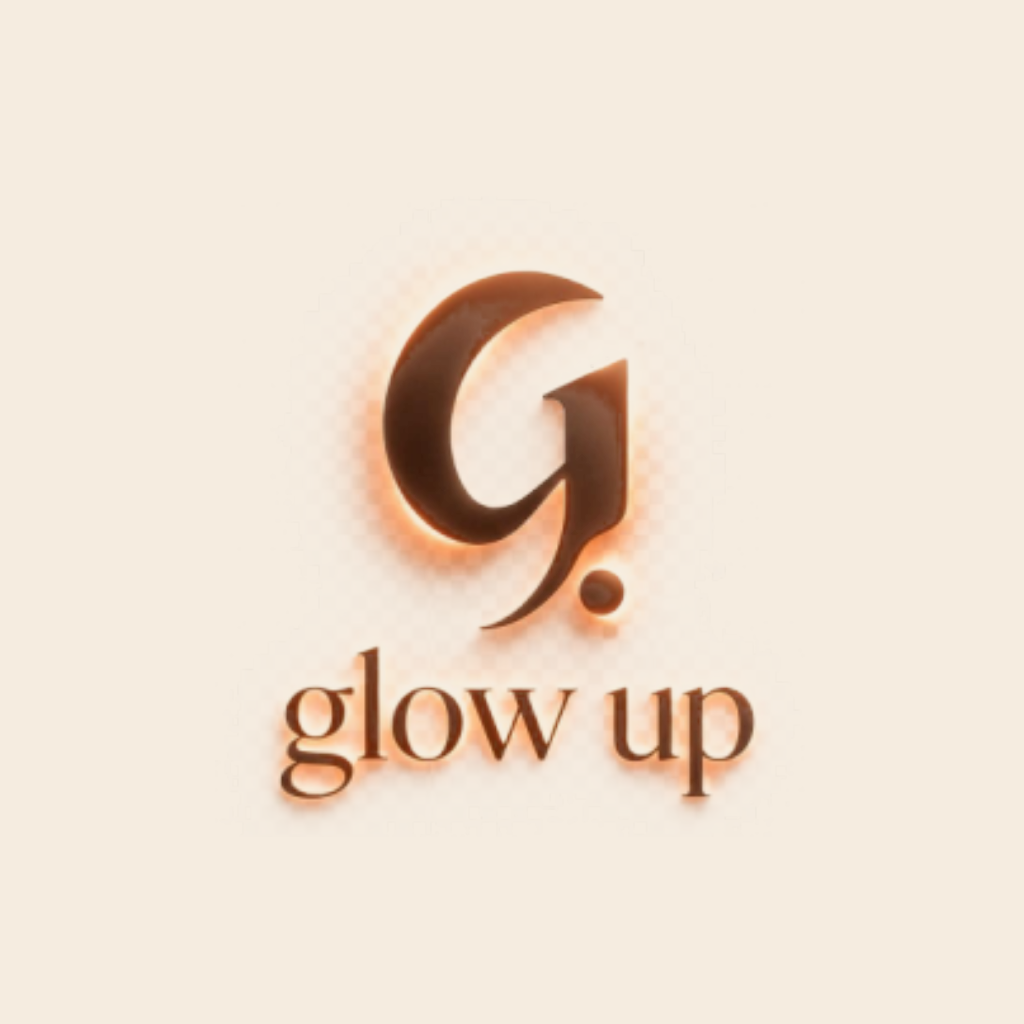
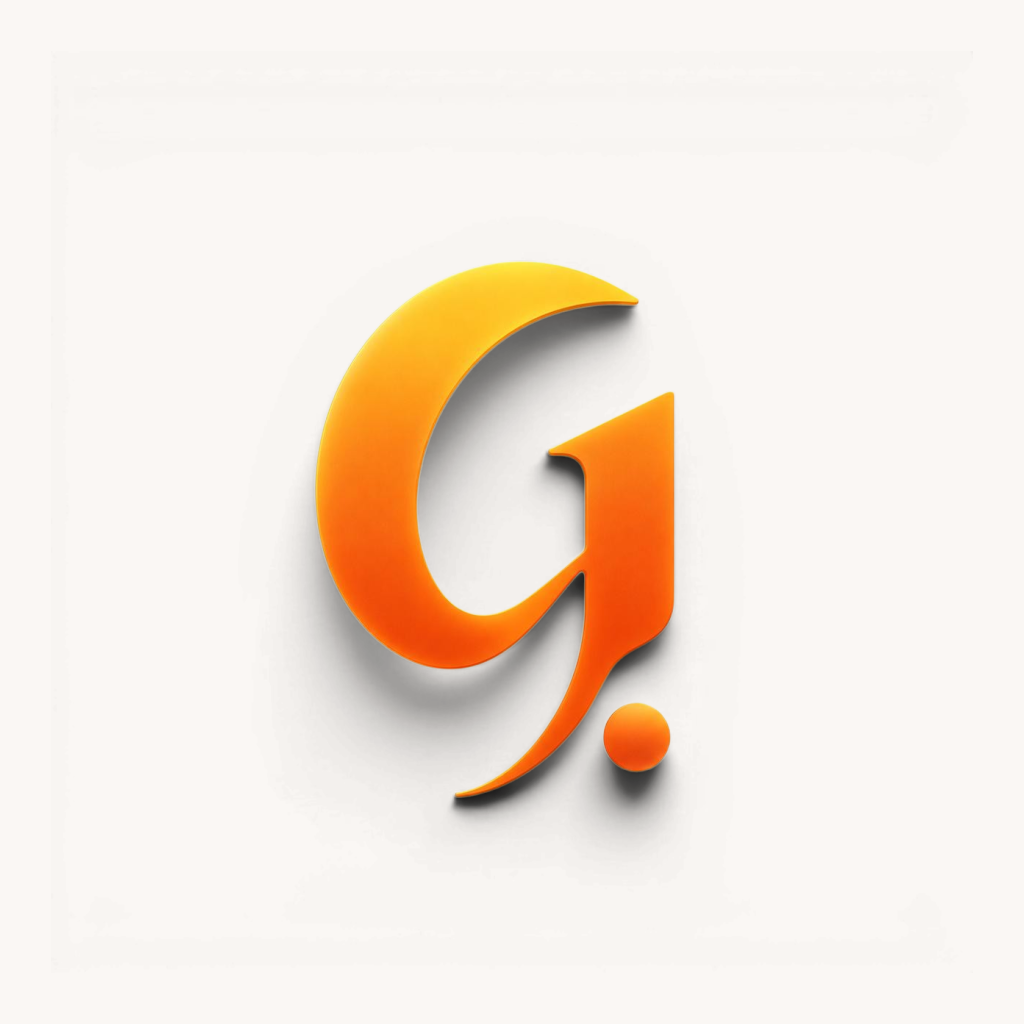
Icône officielle de l'app : monogramme g. agrandi (90%) sur crème
- Reconstruite depuis logo-g.png propre (les versions marron avaient un damier)
- icons/192-512-1024 (web/PWA + favicon) + resources/icon.png (source build iOS)
- g. non tronqué, lisible à toutes les tailles App Store
- Bump SW glowup-v210

Changed region(s): [[0.25, 0.25, 0.75, 0.8125]]

diff --git a/sw.js b/sw.js
@@ -1,4 +1,4 @@
-const CACHE_NAME = 'glowup-v209';
+const CACHE_NAME = 'glowup-v210';
 
 const STATIC_ASSETS = [
   '/',
